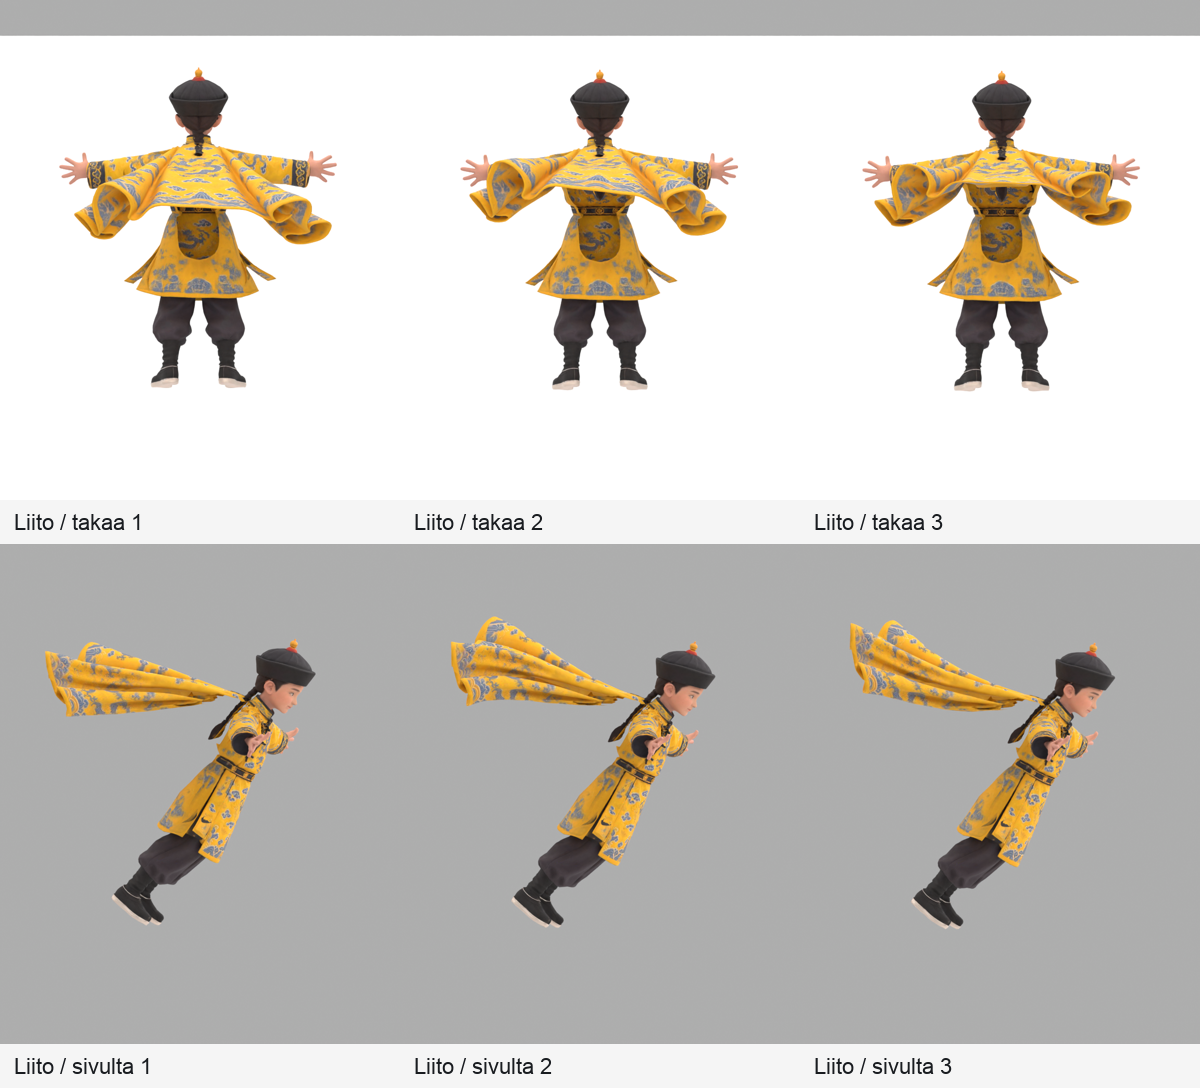
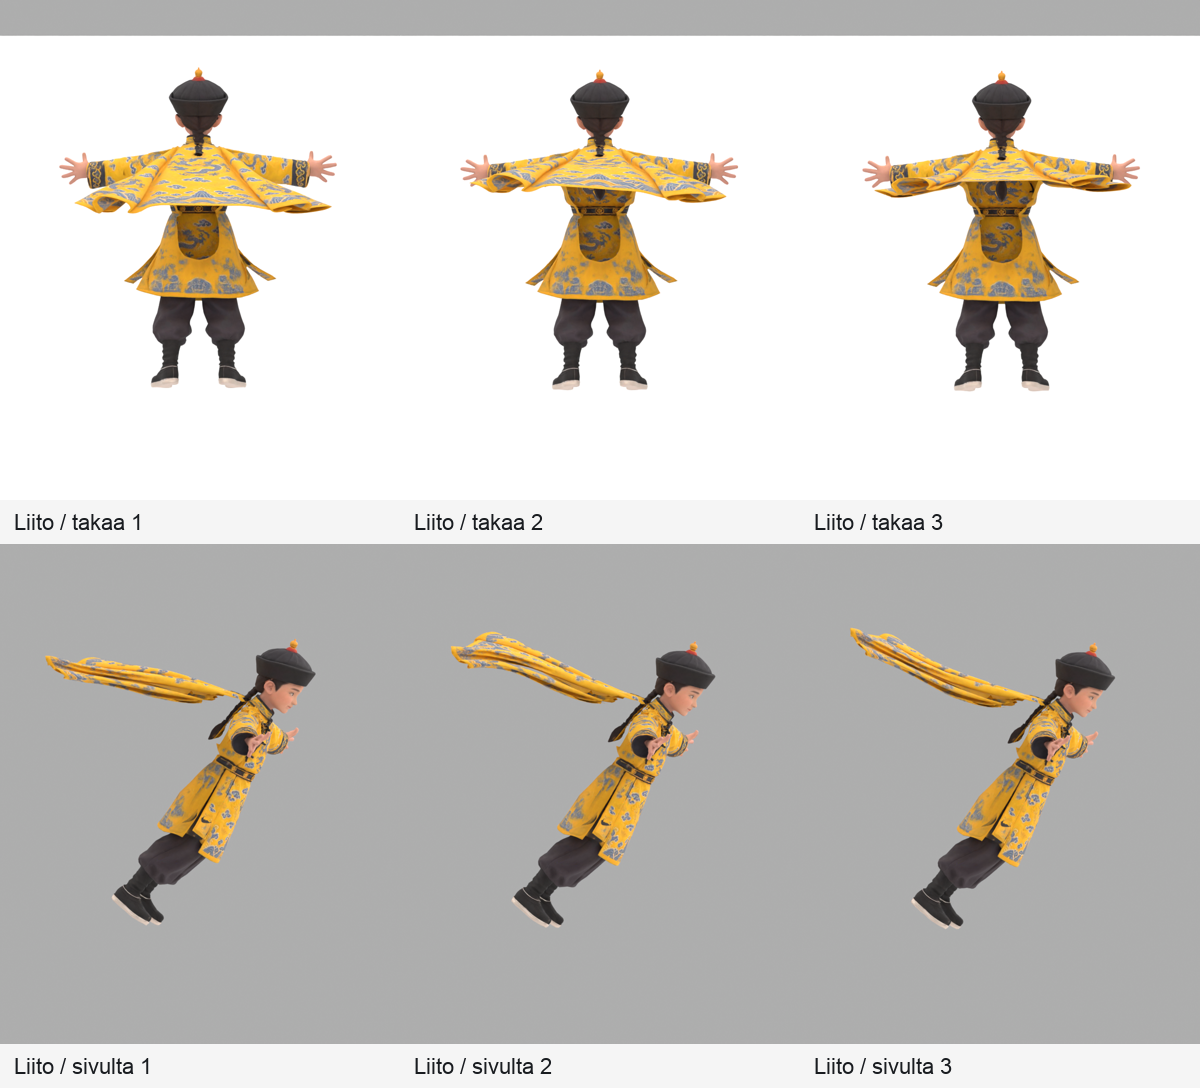
Pehmennä Puyin viitan juoksuliikettä ja päivitä QA-arkit
Raportit, valitut lähdekuvat ja QA-arkit. GLB:t pysyvät paikallisessa toimituskansiossa. Ei pelikoodin muutoksia.

diff --git a/posti/codex-paatoimittaja-tripo-hahmot-20261019.md b/posti/codex-paatoimittaja-tripo-hahmot-20261019.md
@@ -47,19 +47,30 @@ Lyhyen liidon tarkoitus: katolta ponnistava keisari voi ylittää alhaalla väij
 
 Uuden mallin viitta on tässä GLB:ssä jatkuvasti näkyvissä. Viitan ilmestyminen/katoaminen ja perusmallin sekä viittaversion saumaton vaihto eivät ole valmiita pelitoimintoja. Kaikki aiemman perusmallin 9 liikettä eivät automaattisesti siirry tähän uuteen rigiversioon. Uudet lähteet muuttavat hiukan kasvojen/koristeiden yksityiskohtia; mallivaihdon jatkuvuus on hyväksyttävä erikseen.
 
-### Viitan tarkistukset ja rajat
+### Viitan tarkistukset ja rajat — luonnollisempi juoksu, v7
 
-Uusi kolmen lähdekuvan Tripo-malli, 39 999 kolmiota, enintään 2048 px tekstuuri, 1,35 m. Viitta on kaavun kanssa samanväristä kangasta. Alkuperäinen auto-rigi sitoi viittaa jalkoihin. Tripon osittelu erotti viitan kokonaisena, minkä jälkeen 49 apuluun skinning ja leivottu tuuliliike tehtiin paikallisesti. 114 luuta yhteensä, enintään 4 painoa/verteksi. Yksi alkuperäinen materiaaliatlas säilytettiin.
+Omistajan lisäpyyntö 18.10.2026: viitasta luonnollisemmin hulmuava juostessa. Valittu paikallinen v7 korvaa aiemman v4:n. Aiempi toimitus on säilytetty kansiossa `cape-tripo-01/delivery-v4/`; Tripo-lähteet ja v4-tiedostot ovat tallessa.
 
-Mukana seisonta, juoksu, spurtti, toistuva lähdehyppysarja, liitoon siirtyminen, liito, vasen/oikea kallistus ja paluu juoksuasentoon. Jyrkän pudotuksen `jump_down` jätettiin toimitus-GLB:stä pois: pelikorkeuden ja alastulon sovitus on kesken. Perusmallin kaikki 9 liikettä ovat edelleen omassa alkuperäisessä toimitus-GLB:ssä.
+## Muutos
 
-Viitan helma on lähdegeometrian mukaisesti paksu ja rullautuva. Hulmuaminen on esilaskettu eikä reagoi tuuleen tai esteisiin. Letillä ei ole tässä uudessa variantissa erillistä lisäheiluntaa. Viitta on aina näkyvissä; ilmestymistä ja katoamista tai mallien vaihtoa ei ole toteutettu peliin. Kasvoissa ja koristeissa on pieniä eroja ilman viittaa olevaan malliin.
+- Hartiat on kiinnitetty hahmon liikkeeseen, mutta muu viitta reagoi painovoimaan, liikkuvan vartalon suojamuotoihin ja vaihtelevaan ilmavirtaan erillisessä kangaslaskennassa.
+- Helma seuraa askelten liikettä viiveellä ja aaltoilee myös sivusuunnassa. Juoksu ja spurtti sisältävät kaksi askelsykliä; silmukka tasoitettiin toistuvaksi ilman selvää saumanykäystä.
+- Alaosan syvimpiä syvyyssuuntaisia laskoksia loivennettiin, jotta viitta ei näyttäisi paksulta jäykältä levyltä. Hartiakiinnitys, tekstuuri, UV-kartta ja kolmioiden määrä säilyvät.
+- Liike on leivottu olemassa oleviin 49 viitan apuluuhun. Uutta reaaliaikaista kangasjärjestelmää ei tarvita tämän animaation toistamiseen.
 
-Liito on hahmoasento ja siirtymä. Katolta ponnistus, vartijan ylitys, lentorata ja alastulon kontaktit ovat vastaanottajan pelityötä; pelikoodia ei muutettu. `glide_exit` palauttaa juoksuasentoon, ei ole fyysisesti kontaktitarkistettu laskeutuminen.
+## Tiedostot ja tarkistus
 
-Viittatyön Tripo-kulutus 110 krediittiä (45 malli + 5 retopo + 20 rig + 40 osittelu). Puyin kaikki kokeilut yhteensä 435, koko toimeksianto 885 krediittiä. Ei ostoja.
+`puyi-viitta-model.glb` ja `puyi-viitta-rig-animations.glb`: 39 999 kolmiota, 1,35 m, tekstuurit enintään 2048 px, animoidussa 114 luuta ja enintään 4 painoa/verteksi. Staattinen ja animoitu malli käyttävät samaa kevennettyä viittageometriaa.
 
-Tarkistus: jokaisesta mukana olevasta klipistä kolme ruutua takaa yläviistosta ja kolme sivulta. V4 korjaa viitan siirtymän juoksusta liitoon ja takaisin. Viedyn GLB:n siirtymärajat ja liitoluupin sauma osuvat geometrisesti samaan asentoon. Tämä ei hyväksy pelin alastulokontaktia.
+Yhdeksän klippiä: `idle`, `run`, `sprint_cape`, `hop_sequence`, `glide_enter`, `glide_loop`, `glide_left`, `glide_right`, `glide_exit`. V6 muuttaa juoksua, spurttia ja näihin liittyviä viitan siirtymiä; muut vartalon liikkeet säilyvät. Perusmallin alkuperäiset yhdeksän peliliikettä ovat edelleen erillisessä `puyi-rig-animations.glb`-tiedostossa.
+
+Tarkistus: run/sprint takaa yläviistosta ja sivulta, liito ja siirtymät, tekstuurikoko, kolmio- ja luumäärät, enintään neljä normalisoitua luupainoa, äärelliset GLB-luvut ja silmukan rajakohdat. Uusi esikatselu: `previews/kultaviitta-luonnollinen-juoksu-takaa.mp4`. Vanha/uusi samalla kameralla ja juoksuvaiheella: `previews/kultaviitta-vertailu-vanha-uusi.mp4`.
+
+## Rajat
+
+Tämä on esilaskettu kangasliike. Se ei reagoi pelin vaihtuviin tuuliin, nopeuksiin tai esteisiin. Viitta on mallissa jatkuvasti näkyvissä; ilmestyminen/katoaminen, perusmallin vaihto, liidon lentorata, vartijan ylitys ja alastulon kontaktit ovat edelleen pelityötä. Uudella variantilla ei ole erillistä letin lisäheiluntaa. Omistajan visuaalinen hyväksyntä ja laitetesti ovat erilliset vaiheet.
+
+Tähän paikalliseen korjaukseen ei kulunut Tripo-krediittejä. Viittatyö yhteensä 110, Puyin kaikki kokeet 435 ja koko toimeksianto 885 Tripo-krediittiä. Ei ostoja, asennuksia, käyttöoikeusmuutoksia tai pelikoodin muutoksia.
 
 
 ### Lisäliikkeiden arvio
@@ -95,8 +106,8 @@ Pulu tehtiin omistajan pyynnöstä hoikemmaksi ja ryhdikkäämmäksi. Niska ja p
 
[9 lines of base64/hex data omitted]
@@ -116,6 +127,7 @@ Pulu tehtiin omistajan pyynnöstä hoikemmaksi ja ryhdikkäämmäksi. Niska ja p
 - Puyi, run/hyppy/liuku/tasapainoilu/omenan heitto takaa yläviistosta: `/Volumes/T7 4TB/ChatGPT-Codex-active/ChatGPT/Matkakirja 2/output/tripo-hahmot-20261019/puyi/previews/puyi-liikkeet-takaa.mp4`. Omistaja vahvisti 18.10., että tämä esikatselu näkyy. Tämä on näyttämisen vahvistus, ei kaikkien liikkeiden lopullinen hyväksyntä.
 - Vartijan juoksu: `/Volumes/T7 4TB/ChatGPT-Codex-active/ChatGPT/Matkakirja 2/output/tripo-hahmot-20261019/vartija/previews/juoksu-takaa.mp4`.
 - Kuva-arkit postilaatikossa: `posti/tripo-hahmot-20261019/{puyi,vartija,nainen,pulu}.png`. Puluarkin kolme alaruutua ovat nimettyjä staattisia yksityiskohtia, eivät animaatiota.
-- Uuden kultaisen viitan juoksu/liitoesikatselu: `/Volumes/T7 4TB/ChatGPT-Codex-active/ChatGPT/Matkakirja 2/output/tripo-hahmot-20261019/puyi/previews/kultaviitta-juoksu-liito-takaa.mp4` (paikallinen hahmoesikatselu, ei pelitesti).
+- Uusin luonnollisempi juoksu ja spurtti (v7): `/Volumes/T7 4TB/ChatGPT-Codex-active/ChatGPT/Matkakirja 2/output/tripo-hahmot-20261019/puyi/previews/kultaviitta-luonnollinen-juoksu-takaa.mp4`.
+- Vanha/uusi-vertailu samalla kameralla: `/Volumes/T7 4TB/ChatGPT-Codex-active/ChatGPT/Matkakirja 2/output/tripo-hahmot-20261019/puyi/previews/kultaviitta-vertailu-vanha-uusi.mp4`. Nämä ovat hahmoesikatseluja, eivät pelitestejä.
 
 Claude-roolit voivat ottaa paketit tarkistukseen 19.10. omistajan linjauksen mukaan. Vastaanottajan tulee tarkistaa GLB-hashit, mittakaava, in-place-/root motion -valinta, humanoid + apuluut, liikesiirtymät, kontaktit ja mobiilibudjetti. Hahmojen tuontia peliin ei tehty tässä työssä.
